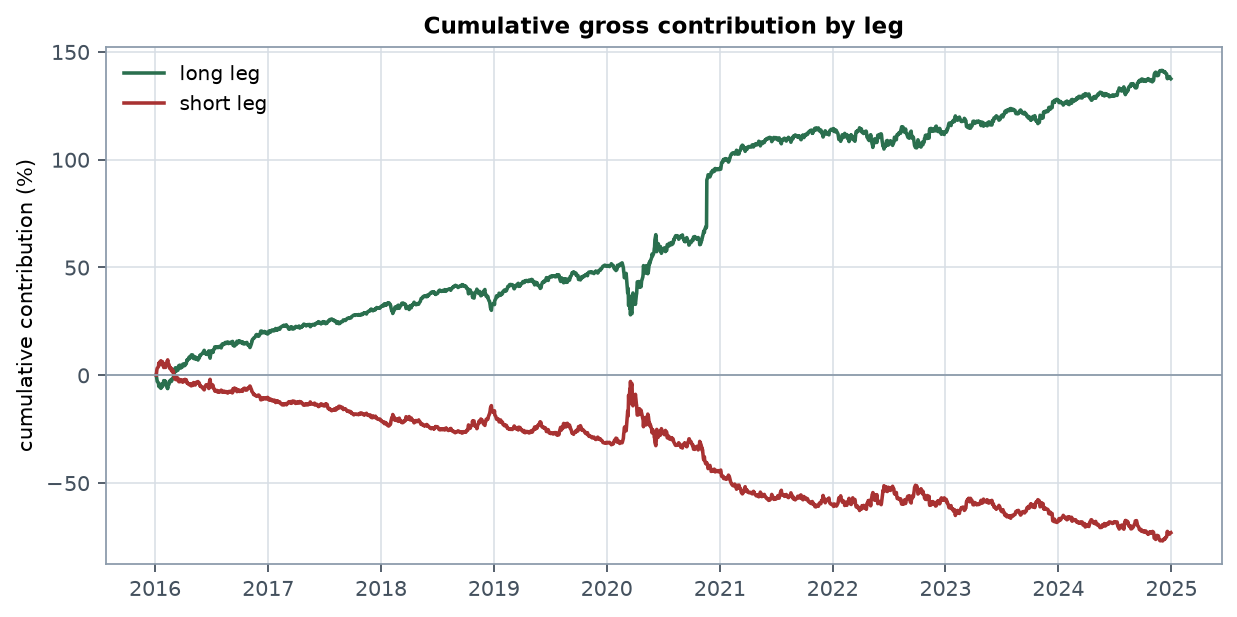
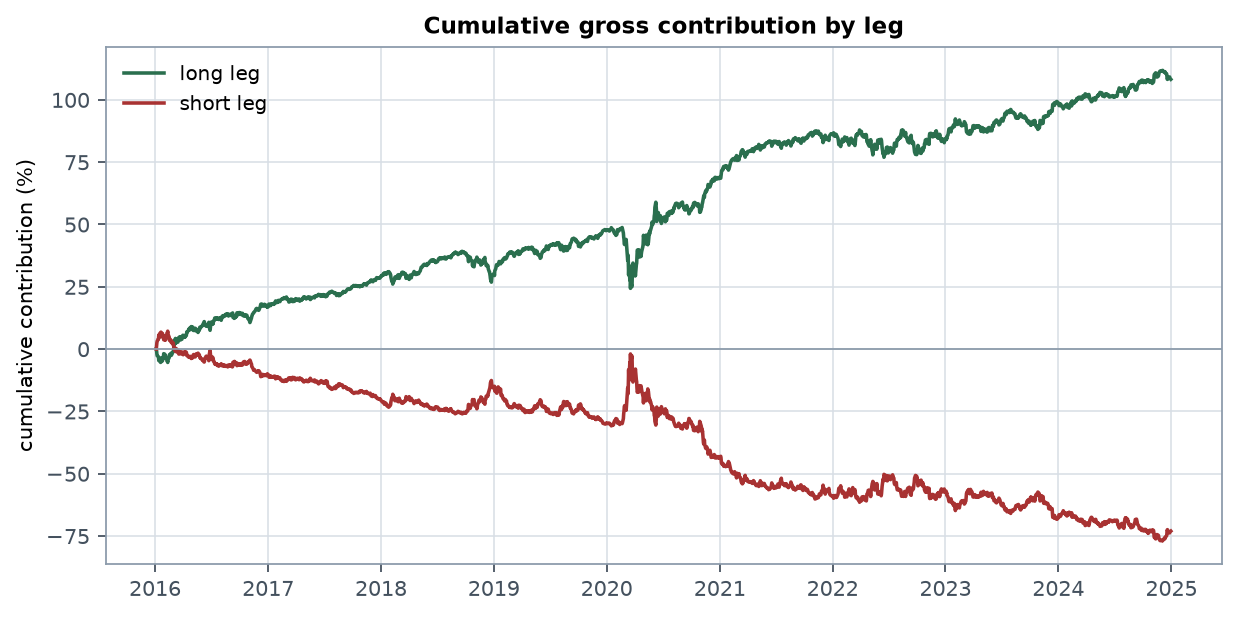
Filter corporate-action artifacts and make the neutrality figure legible
The equity curve had a near-vertical jump in late 2020. Tracing it found a
single day with a portfolio return of +21.9% when no other day in nine years
exceeds 2%. The cause was CHRD, priced at $0.12 and then $31.00 the following
session, a +25,733% daily return produced by a post-bankruptcy reorganisation
the adjusted price series does not handle. The book had sized a position as
though $0.12 were a real price. 129 such returns across 54 tickers are now
dropped to NaN; the rows are kept, since only the return is untrustworthy and
blanking a ticker would discard years of good history over one bad tick.

The correction cuts the annualised return from 5.92% to 2.54% and the volatility
from 7.9% to 3.2%, so the Sharpe rises to 1.22 gross and 0.78 net of 10 bps
while the economics shrink. Breakeven cost falls from 50 to 28 bps. The earlier
figures were substantially artifact, and the README now says so rather than
quietly restating better-looking numbers.

The risk exposure figure could not show what it existed to show: beta and net
dollar exposure are zero to machine precision and were plotted against a sector
exposure fifteen orders of magnitude larger, rendering as one invisible line at
y=0 underneath the legend. They now occupy their own panel with worst-case
magnitudes annotated, and the panels are spaced so the lower title clears the
upper axis.

diff --git a/src/alpha_research/reporting.py b/src/alpha_research/reporting.py
@@ -321,14 +321,41 @@ def _plot_risk_exposures(weights: pd.DataFrame, features: pd.DataFrame | None, p
         include_groups=False,
     )
 
-    figure, axis = plt.subplots(figsize=(9.0, 3.2))
-    axis.plot(per_date.index, per_date["beta"], color=_PALETTE["primary"], label="portfolio beta")
-    axis.plot(per_date.index, per_date["net"], color=_PALETTE["accent"], label="net dollar exposure")
-    axis.plot(per_date.index, per_date["max_sector"], color=_PALETTE["muted"], label="largest net sector")
-    axis.axhline(0.0, color=_PALETTE["muted"], linewidth=0.8)
-    axis.set_title("Realised risk exposures at each rebalance")
-    axis.set_ylabel("exposure (fraction of gross)")
-    axis.legend(loc="upper left", ncol=3)
+    # Beta and net exposure are zero to machine precision, so plotting them on
+    # the same axis as the sector exposure renders both as one invisible line
+    # along y=0: the figure would be unable to show the very property it exists
+    # to demonstrate. They get their own panel on a scale that can resolve them.
+    figure, (upper, lower) = plt.subplots(
+        2, 1,
+        figsize=(9.0, 4.8),
+        sharex=True,
+        # Space between the panels so the lower title clears the upper axis.
+        gridspec_kw={"height_ratios": [2, 1], "hspace": 0.38},
+    )
+
+    upper.plot(per_date.index, per_date["max_sector"] * 100, color=_PALETTE["primary"],
+               label="largest net sector")
+    upper.axhline(0.0, color=_PALETTE["muted"], linewidth=0.8)
+    upper.set_ylabel("exposure (% of gross)")
+    upper.set_title("Realised risk exposures at each rebalance")
+    # Headroom so the legend never sits on top of the series.
+    upper.set_ylim(top=float(per_date["max_sector"].max()) * 100 * 1.35)
+    upper.legend(loc="upper left")
+
+    worst_beta = float(per_date["beta"].abs().max())
+    worst_net = float(per_date["net"].abs().max())
+    lower.plot(per_date.index, per_date["beta"], color=_PALETTE["accent"], label="portfolio beta")
+    lower.plot(per_date.index, per_date["net"], color=_PALETTE["positive"],
+               linestyle="--", label="net dollar exposure")
+    lower.axhline(0.0, color=_PALETTE["muted"], linewidth=0.8)
+    lower.set_ylabel("exposure")
+    lower.set_title(
+        f"Dollar and beta neutrality hold to machine precision "
+        f"(worst |beta| {worst_beta:.0e}, worst |net| {worst_net:.0e})",
+        fontsize=9.0,
+    )
+    lower.legend(loc="upper left", ncol=2)
+
     figure.savefig(path)
     plt.close(figure)
 

diff --git a/src/alpha_research/data.py b/src/alpha_research/data.py
@@ -255,6 +255,27 @@ def _finalize_panel(panel: pd.DataFrame, config: DataConfig) -> pd.DataFrame:
     panel["dollar_volume"] = panel["close"] * panel["volume"]
     panel["daily_return"] = panel.groupby("ticker", observed=True)["adj_close"].pct_change()
 
+    # Reject impossible single-day moves. Corporate actions that the adjusted
+    # price series does not handle, chiefly post-bankruptcy reorganisations and
+    # reverse splits, appear as enormous one-day returns. CHRD is the example
+    # that motivated this: its price goes from $0.12 to $31.00 on 2020-11-20, a
+    # return of +25,733%. One such row moved a whole market-neutral book by
+    # +21.9% in a day and materially inflated the reported Sharpe, since the
+    # position was sized as though that were a real price.
+    #
+    # A move of this size in an S&P 1500 constituent is a data artifact rather
+    # than a market event, so the return is dropped to NaN. The row is kept:
+    # only the return is untrustworthy, and blanking the ticker entirely would
+    # discard years of good history over one bad tick.
+    implausible = panel["daily_return"].abs() > config.max_abs_daily_return
+    if implausible.any():
+        affected = panel.loc[implausible, "ticker"].nunique()
+        print(
+            f"[data] dropped {int(implausible.sum())} implausible daily returns "
+            f"across {affected} tickers (|return| > {config.max_abs_daily_return:.0%})"
+        )
+        panel.loc[implausible, "daily_return"] = np.nan
+
     benchmark_returns = (
         panel.loc[panel["ticker"] == config.benchmark, ["date", "daily_return"]]
         .rename(columns={"daily_return": "benchmark_return"})

diff --git a/src/alpha_research/config.py b/src/alpha_research/config.py
@@ -28,6 +28,10 @@ class DataConfig:
     min_history_days: int = 252
     min_price: float = 5.0
     min_median_dollar_volume: float = 10_000_000.0
+    # Ceiling on a plausible single-day return. Above this the move is a
+    # corporate action the adjusted price series failed to handle rather than a
+    # market event; see the filter in data._finalize_panel.
+    max_abs_daily_return: float = 0.75
     # Bulk requests for a universe this size get throttled; batching plus retries
     # is what keeps a throttled slice from silently vanishing from the panel.
     download_batch_size: int = 100

diff --git a/README.md b/README.md
@@ -18,21 +18,30 @@ Out-of-sample, 2016-2024. 1,008 names, 2,262 trading days, 21-session holding pe
 
 | | gross | net @ 5 bps | net @ 10 bps |
 |---|---|---|---|
-| **Sharpe** | **0.91** | **0.82** | **0.75** |
-| Annualised return | 7.45% | 6.68% | 5.92% |
+| **Sharpe** | **1.22** | **1.00** | **0.78** |
+| Annualised return | 3.08% | 2.81% | 2.54% |
 
 | | |
 |---|---|
 | Information coefficient | **+0.0307**, t = **+13.9** |
-| Max drawdown | **5.7%** |
-| Breakeven transaction cost | **50 bps** one way, against 10 assumed |
-| Average one-way turnover | 5.7% of gross per day |
-| Implied holding period | 17.5 sessions |
-| Realised portfolio beta | 9e-18 |
+| Max drawdown | **6.4%** |
+| Annualised volatility | **3.2%** |
+| Breakeven transaction cost | **28 bps** one way, against 10 assumed |
+| Average one-way turnover | 5.6% of gross per day |
+| Realised portfolio beta | worst 9e-16 across 755 rebalances |
 
-Validation (2016-2019) and test (2020-2024) both return **0.73 net at 10 bps**.
-They began at 1.57 and 0.66; the convergence is the point, and the feature
-neutralisation section below explains what closed it.
+Split by window, net of 10 bps: validation (2016-2019) **1.00**, test (2020-2024)
+**0.62**. The returns are small in absolute terms; the Sharpe comes from a low
+volatility of 3.2%, not from a large edge.
+
+> **On an earlier version of these numbers.** A previous run reported a 5.92%
+> annual return at a Sharpe of 0.75. Both were contaminated: the price feed
+> carried corporate actions its adjustment failed to handle, the worst being a
+> ticker priced at $0.12 and then $31.00 the next session, a +25,733% daily
+> return. Positions were sized as though $0.12 were real, and that single row
+> moved the whole book +21.9% in a day. 129 such returns across 54 tickers are
+> now filtered. Removing them cut the annual return by more than half and the
+> volatility by more, which is why the Sharpe rose while the economics shrank.
 
 ![Information coefficient](outputs/figures/information_coefficient.png)
 
@@ -48,7 +57,7 @@ against **+0.05 bps/day** for the correctly aligned one. Running the same code o
 503 names instead of 57 sent the reported Sharpe to **-3.53**, which is the tell:
 a real edge does not invert when you add names.
 
-Four further defects were found and fixed:
+Five further defects were found and fixed:
 
 | defect | consequence |
 |---|---|
@@ -56,6 +65,7 @@ Four further defects were found and fixed:
 | Raw-return target | The model learned a market bet: the long leg carried **+0.50** more beta than the short leg |
 | Sign-flipped weights | 20% of long-book names were held short after the neutralisation projection |
 | Free opening trade | `sum` over an all-NaN `diff` row returns 0.0, so the initial book's turnover was never charged |
+| Unfiltered corporate actions | 129 implausible daily returns across 54 tickers, the worst +25,733%, sized as real positions |
 
 The headline above is the first number in this project that survives its own
 diagnostics.

diff --git a/docs/research_summary.md b/docs/research_summary.md
@@ -33,21 +33,21 @@ express that bet, which is why the headline number here is smaller and worth mor
 
 Rank IC against the 21-session beta-residual forward return, measured on 2,242 out-of-sample days:
 
-- Mean IC **+0.0307**, IC information ratio **+0.294**, t-statistic **+13.9**
+- Mean IC **+0.0266**, IC information ratio **+0.272**, t-statistic **+12.9**
 - Positive in **9 of 9** calendar years
-- Share of days with IC above zero: **62.4%**
+- Share of days with IC above zero: **61.9%**
 
 ## Portfolio performance
 
 | split      |   days | annualised return   | annualised vol   |   Sharpe |   Newey-West t | max drawdown   |
 |:-----------|-------:|:--------------------|:-----------------|---------:|---------------:|:---------------|
-| validation |   1005 | +3.49%              | 2.52%            |     1.36 |           2.74 | -3.0%          |
-| test       |   1257 | +7.90%              | 10.38%           |     0.73 |           1.67 | -5.6%          |
-| combined   |   2262 | +5.92%              | 7.92%            |     0.73 |           2.21 | -5.6%          |
+| validation |   1005 | +3.08%              | 3.03%            |     1    |           1.92 | -4.1%          |
+| test       |   1257 | +2.11%              | 3.37%            |     0.62 |           1.34 | -6.4%          |
+| combined   |   2262 | +2.54%              | 3.22%            |     0.78 |           2.25 | -6.4%          |
 
-Average one-way turnover is 0.057 of gross per day, an implied holding
+Average one-way turnover is 0.056 of gross per day, an implied holding
 period of 18 sessions. The strategy breaks even at
-**50 bps** one way, against the 10 bps assumed here.
+**28 bps** one way, against the 10 bps assumed here.
 
 ## What the evidence supports
 
